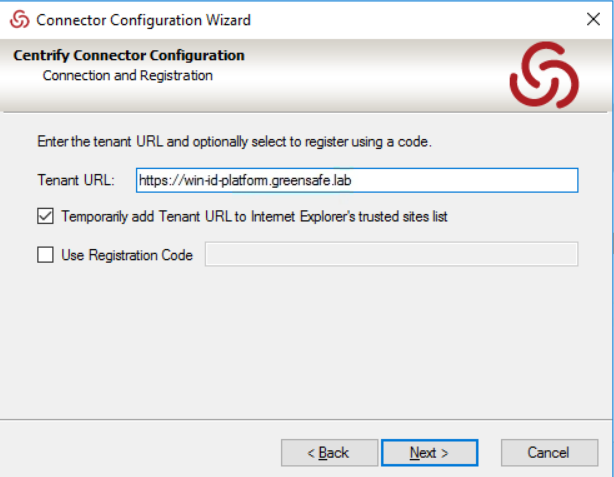
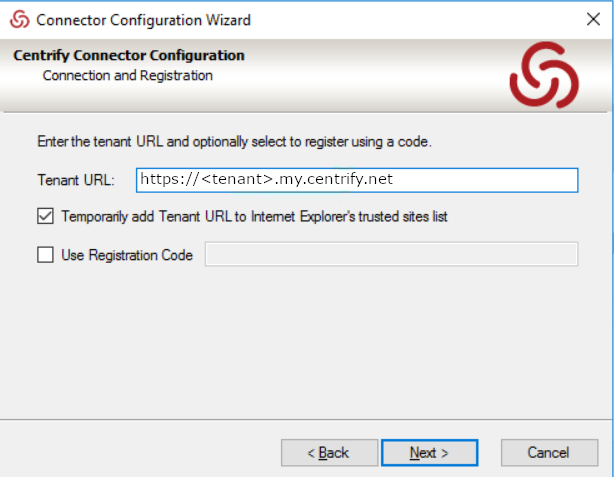
Exchanged to Centrify PAS environment

Changed region(s): [[0.2166, 0.3522, 0.6498, 0.4109]]

diff --git a/lab8/lab8.rst b/lab8/lab8.rst
@@ -24,8 +24,7 @@ Systems used in this lab:
 
 - dc-server.greensafe.lab
 - apps-server.greensafe.lab
-- win-id-platform.greensafe.com
-- lnx-backend-platform.greensafe.lab
+- \https://<tenant>.my.centrify.net
 
 ------
 
@@ -39,7 +38,7 @@ In this exercise, Alex (you) will login to the Centrify Identity Platform and pe
    - **Username:** afoster
    - **Password:** *Provided by Trainer*
 
-#. Launch Google Chrome and browse to your unique Identity Platform URL https://win-id-platform.greensafe.lab
+#. Launch Google Chrome and browse to your unique Identity Platform URL https://<tenant>.my.centrify.net
 #. Login to your unique Identity Platform with the following credentials:
 
    - **Username:** admin
@@ -176,7 +175,7 @@ Centrify Connectors are deployed in the environment to facilitate specific acces
 #. At the Welcome Message, click **Next**
 #. Maintain strong encryption options and click **Next**
 #. Greensafe is not using a proxy server and no changes are needed. Click **Next**
-#. Change the Tenant URL with your unique platform URL. https://win-id-platform.greensafe.lab (You can copy and paste the URL directly from the address bar of the browser.) Leave all other options *default*!!!
+#. Change the Tenant URL with your unique platform URL. \https://<tenant>.my.centrify.net (You can copy and paste the URL directly from the address bar of the browser.) Leave all other options *default*!!!
 
    .. figure:: images/lab-011.png
 

diff --git a/lab10/lab10.rst b/lab10/lab10.rst
@@ -28,8 +28,7 @@ Systems used in this lab:
 - apps-unix.greensafe.lab
 - db-server.greensafe.lab
 - db-unix.greensafe.lab
-- lnx-platform-backend.greensafe.lab
-- win-id-platform.greensafe.lab
+- \https://<tenant>.my.centrify.net
 
 ------
 

diff --git a/lab9/lab9.rst b/lab9/lab9.rst
@@ -25,8 +25,7 @@ Systems used in this lab:
 
 - dc-server.greensafe.lab
 - apps-server.greensafe.lab
-- win-id-platform.greensafe.com
-- lnx-backend-platform.greensafe.lab
+- \https://<tenant>.my.centrify.net
 
 ------
 
